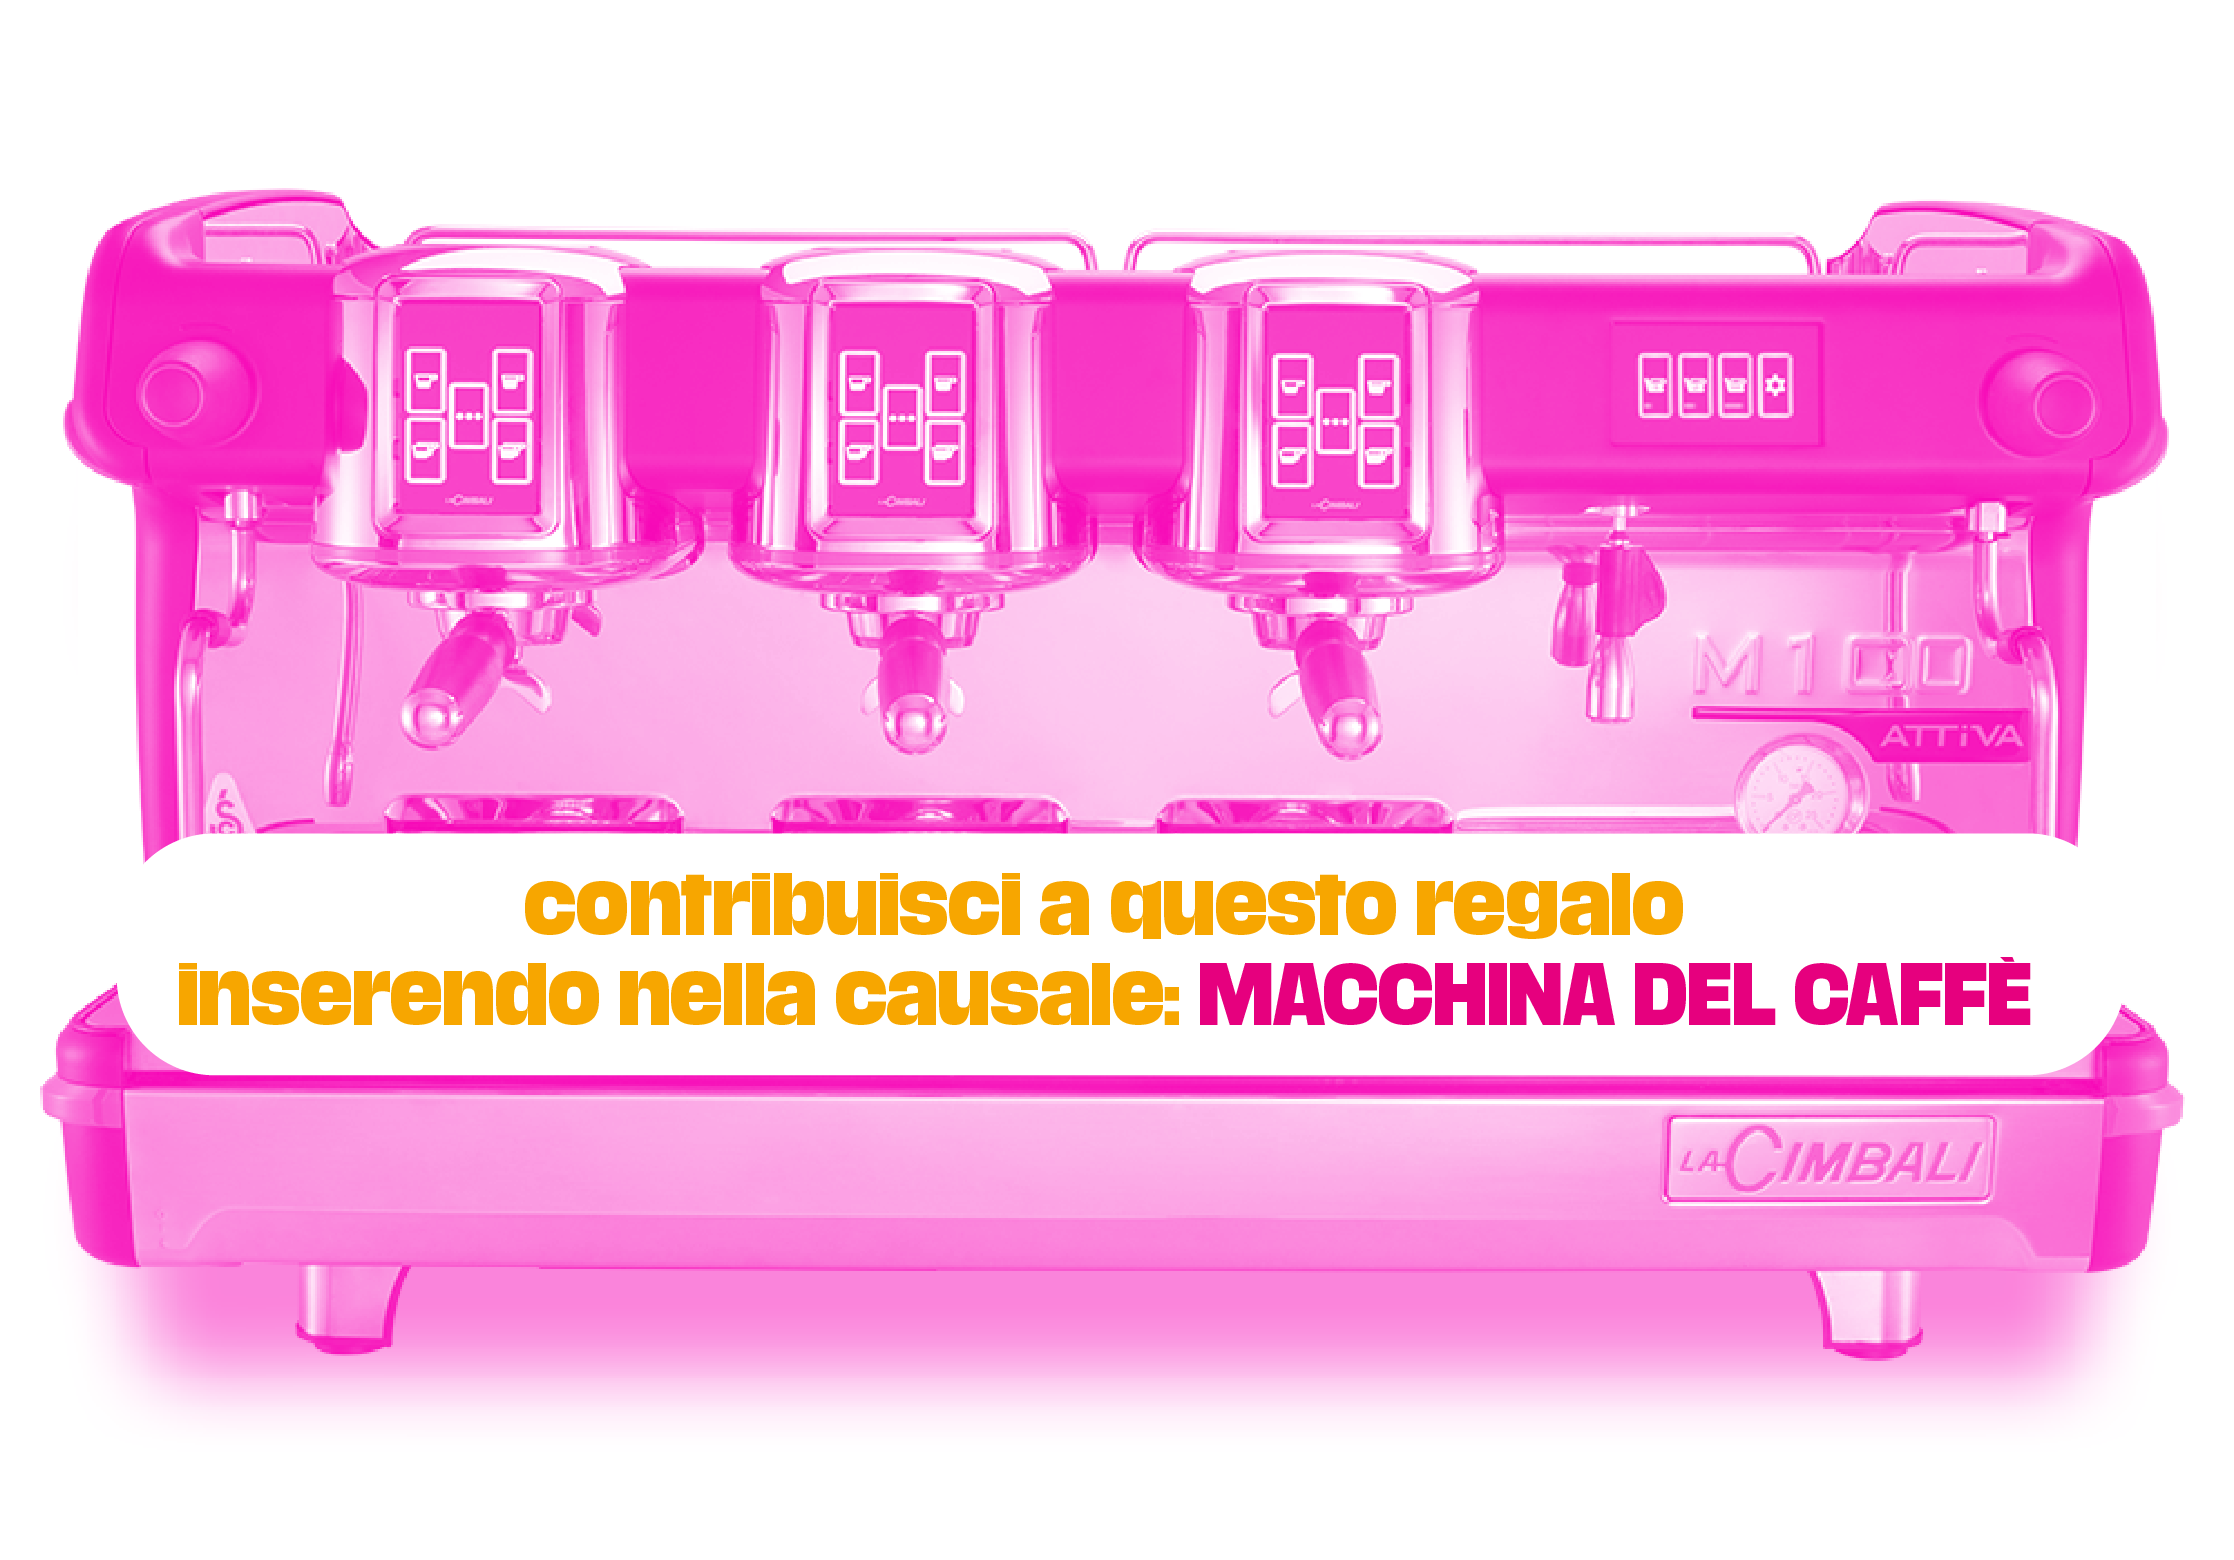
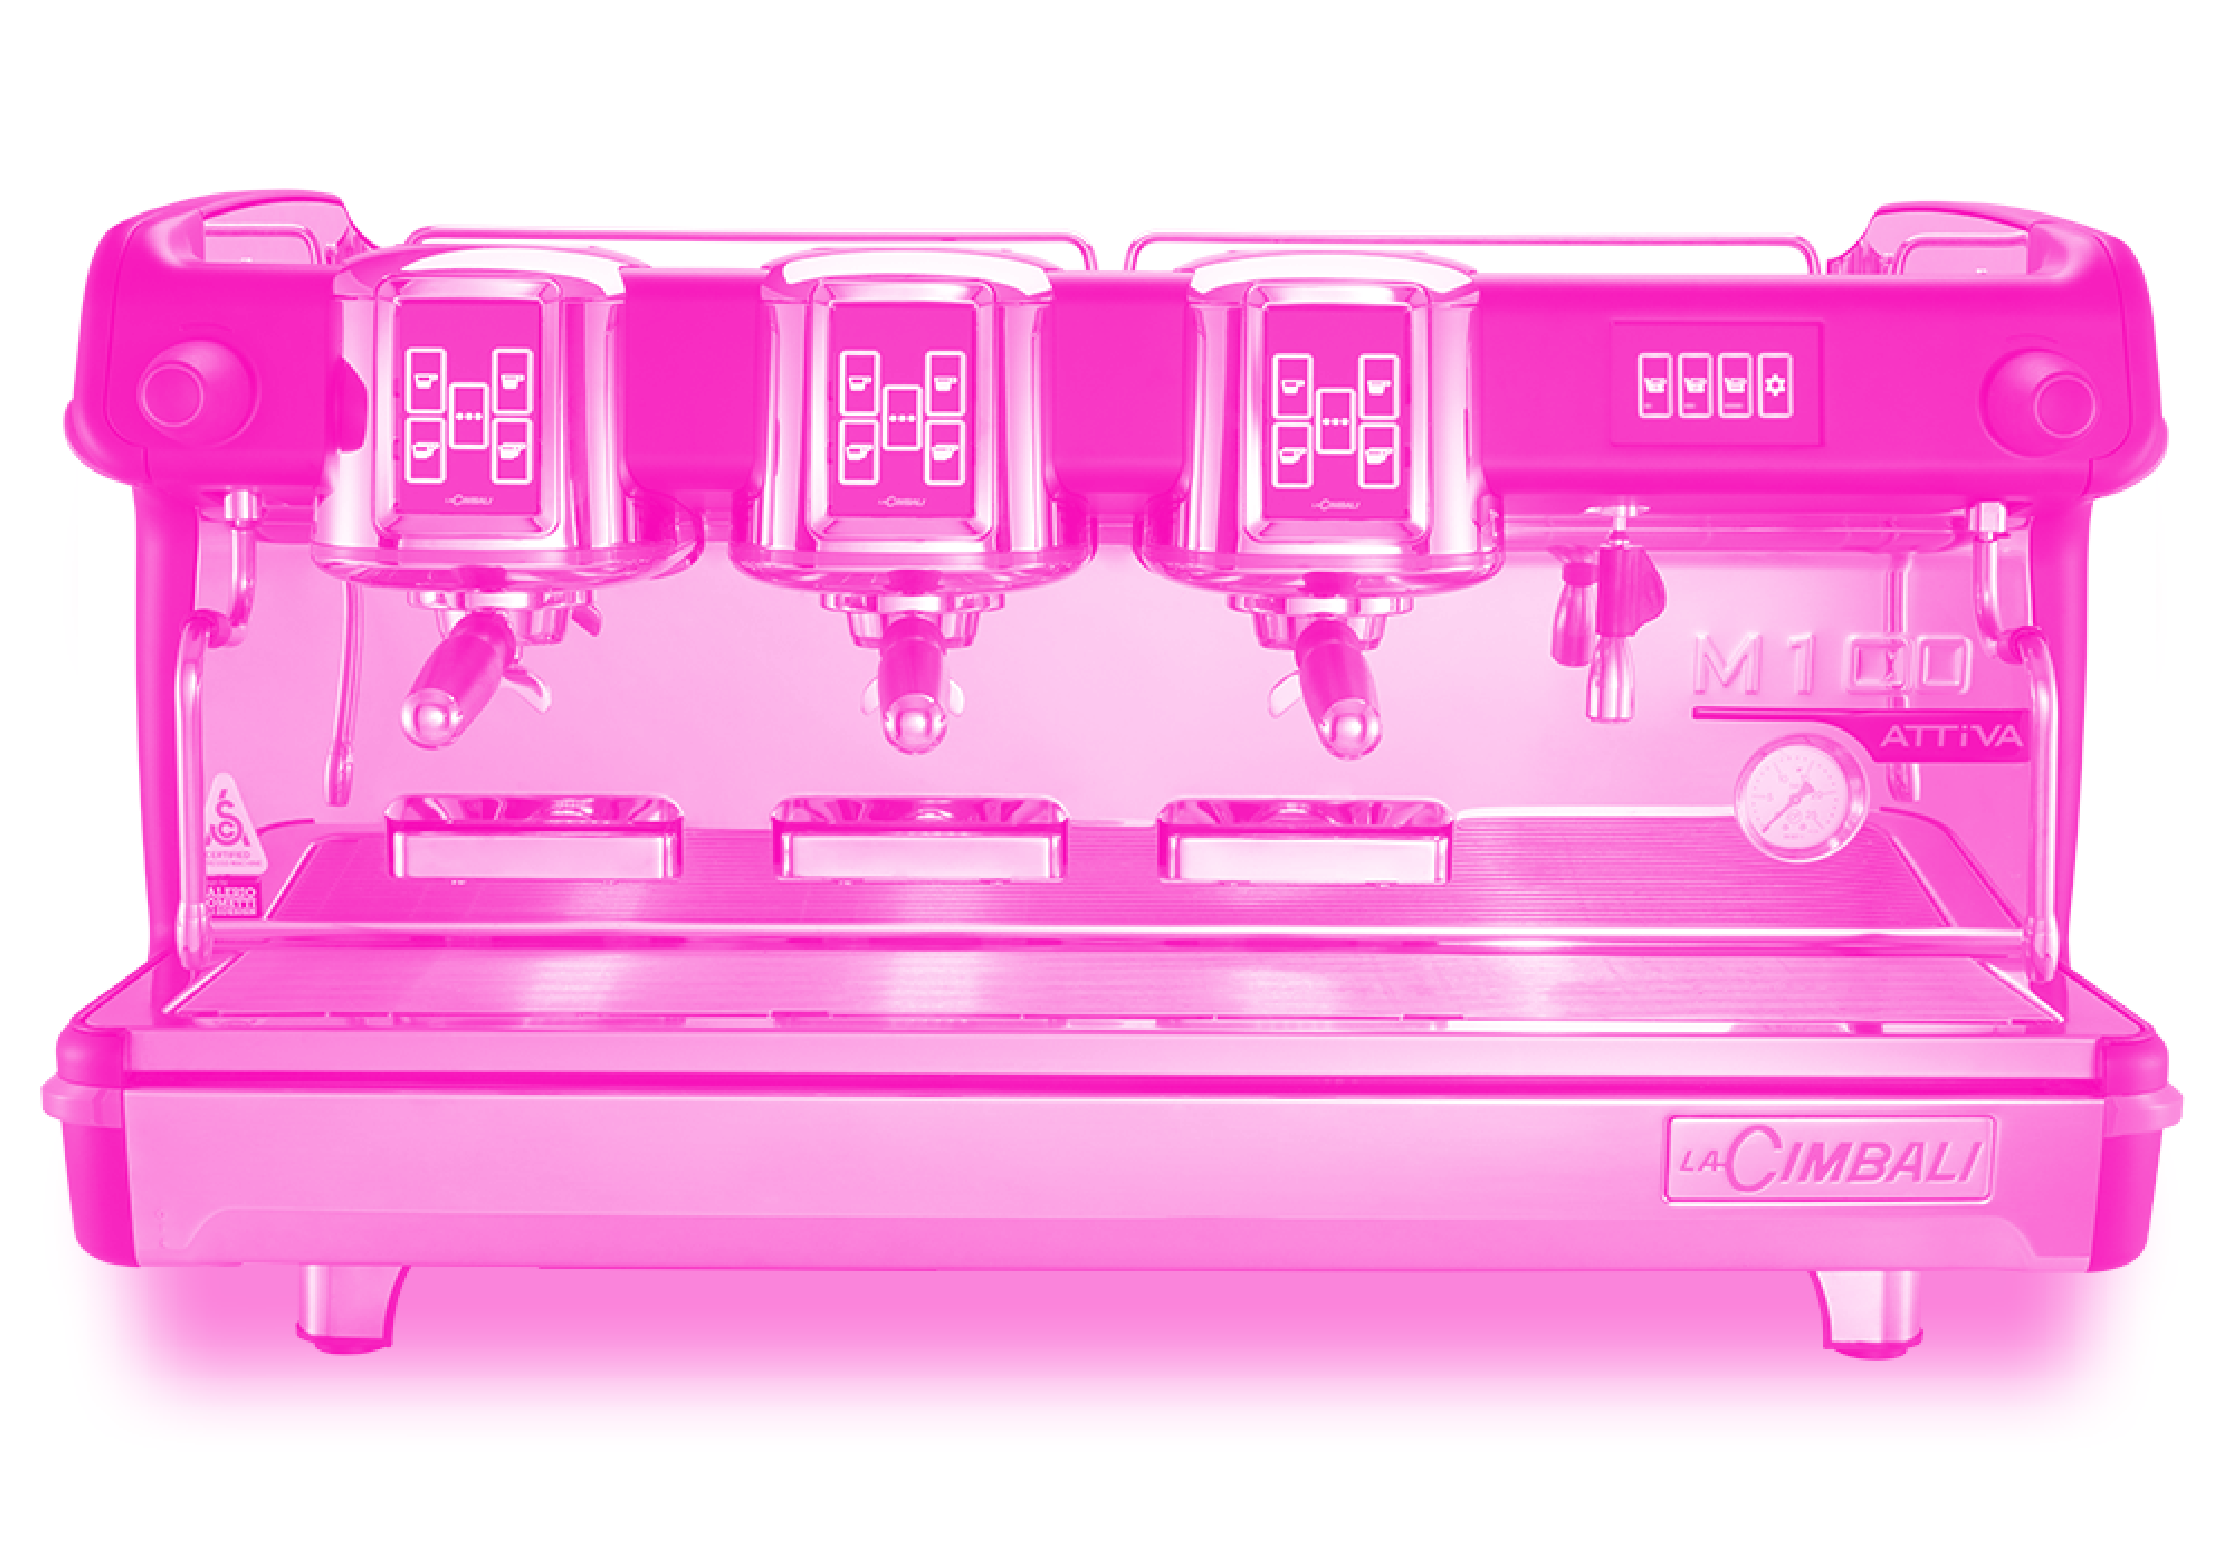
bottoni

Changed region(s): [[0.0309, 0.5231, 0.9575, 0.7077]]

diff --git a/index.html b/index.html
@@ -406,19 +406,22 @@
                     <div class="row regali">
                         <div class="col-lg-4 text-center" id="tazzine">
                             <button class="tasti-regali"> 
-                                ➔  GOOGLE MAPS  
+                                contribuisci a questo regalo 
+                                <br>inserendo nella causale: <span class="regalinome">TAZZINE</span>
                             </button>
                             <!-- <img class="item" src="./assets/tazzine.png"> -->
                         </div>
                         <div class="col-lg-4  text-center" id="godmorgon">
                             <button class="tasti-regali"> 
-                                ➔  GOOGLE MAPS  
+                                contribuisci a questo regalo
+                                <br>inserendo nella causale: <span class="regalinome">GODMORGON</span>
                             </button>
                             <!-- <img class="item" src="./assets/godmorgon.png"> -->
                         </div>
                         <div class="col-lg-4  text-center" id="comodini">
                             <button class="tasti-regali"> 
-                                ➔  GOOGLE MAPS  
+                                contribuisci a questo regalo
+                                <br>inserendo nella causale: <span class="regalinome">COMODINI</span>
                             </button>
                             <!-- <img class="item" src="./assets/comodini.png"> -->
                          </div>
@@ -426,19 +429,22 @@
                     <div class="row regali">
                         <div class="col-lg-4  text-center" id="evedal">
                             <button class="tasti-regali"> 
-                                ➔  GOOGLE MAPS  
+                                contribuisci a questo regalo
+                                <br>inserendo nella causale: <span class="regalinome">EVEDAL</span>
                             </button>
                             <!-- <img class="item" src="./assets/evedal.png"> -->
                         </div>
                         <div class="col-lg-4  text-center" id="water">
                             <button class="tasti-regali"> 
-                                ➔  GOOGLE MAPS  
+                                contribuisci a questo regalo
+                                <br>inserendo nella causale: <span class="regalinome">WATER</span>
                             </button>
                             <!-- <img class="item" src="./assets/water.png"> -->
                         </div>
                         <div class="col-lg-4 text-center" id="letto">
                             <button class="tasti-regali"> 
-                                ➔  GOOGLE MAPS  
+                                contribuisci a questo regalo
+                                <br>inserendo nella causale: <span class="regalinome">LETTO</span>
                             </button>
                             <!-- <img class="item" src="./assets/letto.png"> -->
                          </div>
@@ -450,24 +456,31 @@
                 <div class="centraverticale">
                     <div class="row">
                         <div class="col-lg-12 text-center" id="tavolo">
+                            <button class="tasti-regali"> 
+                                contribuisci a questo regalo
+                                <br>inserendo nella causale: <span class="regalinome">TAVOLO LUNGHIIIIIIISSSSIMISSIMISSIMISSIMISSIMO PER INVITARE AMICI A CENA</span>
+                            </button>
                         </div>
                     </div>
                     <div class="row regali pt-5">
                         <div class="col-lg-4  text-center" id="oliera">
                             <button class="tasti-regali"> 
-                                ➔  GOOGLE MAPS  
+                                contribuisci a questo regalo
+                                <br>inserendo nella causale: <span class="regalinome">OLIERA</span>
                             </button>
                             <!-- <img class="item" src="./assets/oliera.png"> -->
                         </div>
                         <div class="col-lg-4  text-center" id="abatjours">
                             <button class="tasti-regali"> 
-                                ➔  GOOGLE MAPS  
+                                contribuisci a questo regalo
+                                <br>inserendo nella causale: <span class="regalinome">ABAT-JOURS</span> 
                             </button>
                             <!-- <img class="item" src="./assets/abatjours.png"> -->
                         </div>
                         <div class="col-lg-4 text-center" id="macchina">
                             <button class="tasti-regali"> 
-                                ➔  GOOGLE MAPS  
+                                contribuisci a questo regalo
+                                <br>inserendo nella causale: <span class="regalinome">MACCHINA DEL CAFFÈ</span>
                             </button>
                             <!-- <img class="item" src="./assets/macchina.png"> -->
                          </div>
@@ -479,10 +492,57 @@
                 <div class="centraverticale">
                     <div class="row">
                         <div class="col-lg-12 text-center">
-                            <img class="balena" src="./assets/balena.png">
+                            <img class="balena" src="./assets/balena.png"> 
+                            <button class="tasto-balena"> 
+                                contribuisci a questo regalo
+                                <br>inserendo nella causale: <span class="regalinome">ESCURSIONE BALENE MADAGASCAR</span>
+                            </button>
+                            
                         </div>
                     </div>
                 </div>
+            </section>
+            <!-- frasi finali -->
+            <section class="container-fluid" id="frase">
+                <div class="fiori-finale">
+                    <div class="row">
+                        <div class="offset-lg-2 col-lg-3" >
+                            <p class="frasi">
+                            «Il nostro cuore, amici, <br>
+                            reclama un amore <br>
+                            che non sia da conquistare, <br>
+                            un amore donato»
+                            </p>
+                            <p class="cit">
+                                F.FERRARI, <em>CHIAMATI A LIBERTÀ</em>, <br>
+                                ESERCIZI SPIRITUALI DEGLI UNIVERSITARI <br>
+                                DI COMUNIONE E LIBERAZIONE, 2022
+                                </p>
+                        </div>
+                    </div>
+                    <div class="row">
+                        <div class="offset-lg-7 col-lg-3 " >
+                            <p class="frasi">
+                            «Solo la misericordia <br>
+                            permette il cammino <br>
+                            perchè solo in essa <br>
+                            si può generare, <br>
+                            quando noi non riusciamo più <br>
+                            a immaginare la strada <br>
+                            con verità»
+                            </p>
+                            <p class="cit">
+                                S. ALBERTO, J.PRADES, L.GIUSSANI, <br>
+                                <em>GENERARE TRACCE NELLLA STORIA <br>
+                                DEL MONDO</em>, 1998
+                                </p>
+                        </div>
+                    </div>
+                </div>
+            </section>
+            <!-- porta -->
+            <section class="container-fluid" id="porta">
+                
             </section>
         </main>
     </body>

diff --git a/css/style.css b/css/style.css
@@ -82,7 +82,7 @@ body {
 }
   
 h1 {
-    font-family: 'Stabil Condensed', serif; 
+    font-family: 'stabil_condensedregular', serif; 
     font-size: 16rem;
     color: var(--pink);
 }
@@ -159,9 +159,7 @@ h3 {
     color: var(--red);
     font-size: 17rem;
 }
-.seconda {
-  
-}
+
 
 #seconda {
     background-image: url(../assets/fiori_ann.png);
@@ -275,7 +273,7 @@ button {
     border-radius: 30px;
     color: var(--yellow);
     font-family: 'media_sansblack';
-    padding: 0.8rem 2rem;
+    padding: 0.8rem 1.5rem;
 }
 .testi {
     padding-top: 38vh;
@@ -332,6 +330,12 @@ button {
     
 }
 
+#regali3 {
+    margin-top: -20vh;
+    margin-bottom: 5vh;
+   
+}
+
 .item {
     width: 20vw;
 }
@@ -341,9 +345,7 @@ button {
 .balena {
     height: 105vh;
 }
-#regali3 {
-   margin-top: -20vh;
-}
+
 section {
     height: 100vh;
 }
@@ -420,10 +422,22 @@ section {
     top:65%;
 }
 
+.tasto-balena {
+   position: absolute;
+   top: 45%;
+   left: 50%;
+   transform: translate(-50%,-50%);
+}
+
+button:hover {
+    background-color: var(--red);
+}
+
 .centraverticale {
     position: relative;
     top:15%;
 }
+
 
 
 #tavolo {
@@ -432,4 +446,43 @@ section {
     background-size: 80%;
     background-repeat: no-repeat;
     background-position: center; 
+}
+
+
+#frase {
+    background-color: black;
+    padding-top: 20vh;
+    padding-bottom: 40vh;
+}
+
+.fiori-finale {
+    position: relative;
+    top: 10%;
+    background-image: url(../assets/fiori.png);
+    background-size: 10%;
+    background-repeat: no-repeat;
+    background-position: center; 
+}
+
+#porta {
+    background-color: black;
+    background-image: url(../assets/door.png);
+    background-size: 30%;
+    background-repeat: no-repeat;
+    background-position: center; 
+}
+
+.regalinome {
+    color: var(--pink);
+}
+
+.frasi {
+    font-family: 'stabil_condensedregular', serif;
+    color: white;
+    font-size: 2.3rem;
+    line-height: 2.2rem;
+}
+.cit {
+    color: var(--yellow);
+    font-family: 'media_sansbold', sans-serif;
 }
